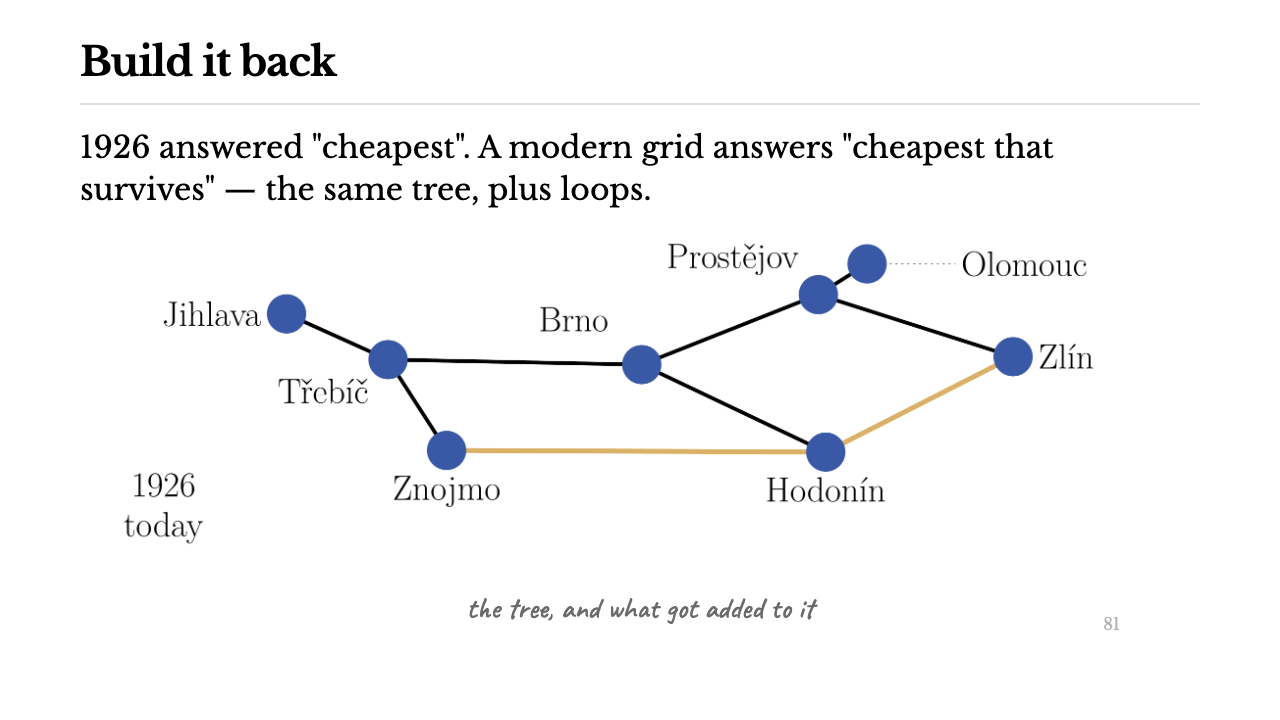
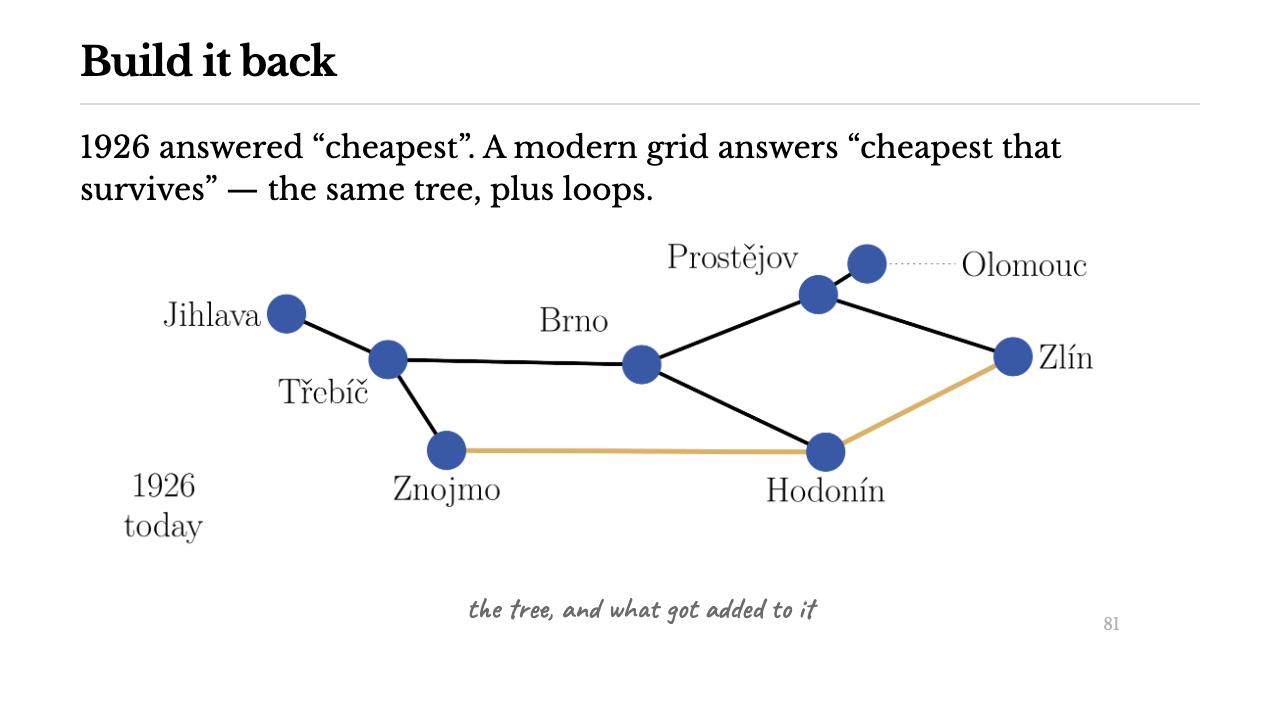
m03 R7: read the range no reviewer covered, and fix what it found
rev-24-46 never reported, so slides 24-46 were read here slide by slide.
Four findings: 'any cut' sliced in half by its own canvas; the Boruvka opening
frame drawing its note through the word 'Znojmo'; slide 39 ringing one of TWO
tied largest pieces as though it were the bigger; straight quotes and one
stress-bold.

Every slide in the deck has now been read by someone. check_render green:
92 slides, 365 discs in a 26-42px band.

Claude-Session: https://claude.ai/code/session_012tSRaLmnznNzAAZDmB9Dqh

Changed region(s): [[0.1875, 0.1833, 0.8438, 0.3056]]

diff --git a/docs/slide/new/m02/figures/make_figures.py b/docs/slide/new/m02/figures/make_figures.py
@@ -680,7 +680,9 @@ WS98 = [
 WS98_R = [(n, L / Lr, C / Cr, (C / Cr) / (L / Lr)) for n, _, L, Lr, C, Cr in WS98]
 WS98_N = {n: sz for n, sz, *_ in WS98}
 assert [round(s) for _, _, _, s in WS98_R] == [2397, 11, 5], WS98_R
-assert max(WS98_N.values()) / min(WS98_N.values()) > 700, "the sizes must span the claim"
+_orders = round(math.log10(max(WS98_N.values()) / min(WS98_N.values())))
+WS98_ORDERS = ["no", "one", "two", "three", "four"][_orders]
+assert _orders == 3, _orders
 
 GRID = nx.grid_2d_graph(20, 20)
 assert nx.transitivity(GRID) == 0
@@ -1107,6 +1109,32 @@ def ellipse_pos(n, cx, cy, rx, ry, start=90, ccw=True):
     for i in range(n):
         a = math.radians(start + (360 / n) * (i if ccw else -i))
         out[i] = (cx + rx * math.cos(a), cy + ry * math.sin(a))
+    return out
+
+
+def antiprism_pos(n, cx, cy, rx, ry, inner, start=90):
+    """Positions for C_n(1,2) that draw it planar with straight edges.
+
+    C_n(1,2) IS the (n/2)-antiprism.  Put the even nodes on an outer ellipse and the odd
+    nodes on a concentric inner one and the two families of edge separate cleanly: the
+    +2 edges become the two (n/2)-gons, the +1 edges the zigzag between them.  Zero
+    crossings, and every triangle draws as a triangle.
+
+    On one ellipse there is no such drawing.  Bow every skip chord inward and adjacent
+    chords cross at every node -- sixteen crossings on the slide whose claim is that
+    triangles are everywhere, with each triangle rendering as a lens.  Alternate the bows
+    in and out instead and the crossings go, but an outward bow has to clear its disc
+    from the far side, and the result is a wavy flower in which no triangle can be picked
+    out at all.  The antiprism dissolves the trade rather than choosing a side.
+    """
+    assert n % 2 == 0, n
+    step = 720.0 / n                      # even nodes sit two ring steps apart
+    out = {}
+    for k in range(n // 2):
+        a = math.radians(start + step * k)
+        out[2 * k] = (cx + rx * math.cos(a), cy + ry * math.sin(a))
+        b = math.radians(start + step * k + step / 2)
+        out[2 * k + 1] = (cx + inner * rx * math.cos(b), cy + inner * ry * math.sin(b))
     return out
 
 
@@ -1664,14 +1692,12 @@ def fig_ws1998_sigma():
 # 16 nodes, not 20: at 40bp discs a 20-node ring needs a 358bp circle, which fills a
 # column figure's whole height and leaves the deck scaling white margin either side.
 # k=4 gives C = 3(k-2)/(4(k-1)) = 0.5 whatever n is, so nothing in the story changes.
-# Vertically 124: an inward chord bowed clear of the disc it passes needs 34bp of the
-# ring's own radius, and the canvas is 364bp tall.  Horizontally 180, because a circle
-# that short left the drawing spanning 60% of the canvas width -- below that the deck is
-# scaling white margin instead of the picture.
+# The layout is the 8-antiprism (see antiprism_pos): rx 195 so the drawing spans the
+# column, ry 124 so the whole figure clears the 364bp canvas with its caption under it.
 RING_N, RING_K = 16, 4
-RING_RX, RING_RY = 180, 124
+RING_RX, RING_RY, RING_INNER = 195, 124, 0.62
 RING_C = (260, 200)
-RING_POS = ellipse_pos(RING_N, RING_C[0], RING_C[1], RING_RX, RING_RY, start=90)
+RING_POS = antiprism_pos(RING_N, RING_C[0], RING_C[1], RING_RX, RING_RY, RING_INNER)
 RING_EDGES = sorted({(min(i, (i + d) % RING_N), max(i, (i + d) % RING_N))
                      for i in range(RING_N) for d in (1, 2)})
 assert len(RING_EDGES) == RING_N * RING_K // 2 == 32
@@ -1689,15 +1715,11 @@ RING_CLEAR = NODE / 2 + 16
 
 
 def assert_triangles_open(name, pos, paths):
-    """Every chord must leave a visible interior in the triangle it closes.
+    """Every edge must leave a visible interior in the triangle it closes.
 
-    C16(1,2) is planar and a zero-crossing drawing does exist -- alternate the chords
-    inside and outside the ring and the 16 crossings go away.  It was built and rejected:
-    an outward bow has to clear the disc from the far side, which needs 34bp against 14bp
-    inward, and the result is a wavy flower in which not one triangle can be picked out.
-    On the slide whose claim is "triangles everywhere" that trades a Major for a Blocker.
-    So the chords all bow inward, deeply, and this is the invariant that protects what the
-    slide actually asserts.
+    On the antiprism layout the 16 triangles are drawn with straight edges and this gate
+    measures the gap between an edge and the disc it passes; it is what stops the inner
+    ellipse creeping out toward the outer one until the triangles collapse into slivers.
     """
     worst = None
     for a, b, pts in paths:
@@ -1712,21 +1734,33 @@ def assert_triangles_open(name, pos, paths):
         f"disc -- under 12bp the triangle it closes has no visible interior")
 
 
-def _ring(hot=(), pos=RING_POS, edges=RING_EDGES, ringed=(), cen=RING_C, dashed=(),
-          check=True):
+def _lattice_edges(pos=RING_POS, edges=RING_EDGES, hot=(), name="ring lattice"):
+    """The lattice itself, drawn straight, and gated three ways.
+
+    Straight is the point: on the antiprism layout no lattice edge needs a bow to clear
+    a disc, so there is nothing to bow and nothing to cross.  The three gates are the
+    guarantee -- planar drawing, disc clearance, and a visible triangle interior.
+    """
     s = ""
-    paths = []
     for a, b in edges:
         h = (a, b) in hot or (b, a) in hot
-        s += curve_edge(a, b, pos, color="accenttwo" if h else "black",
-                        w=HEAVY_W if h else EDGE_W, centroid=cen,
-                        clear=RING_CLEAR, paths=paths)
+        s += seg(pos[a], pos[b], color="accenttwo" if h else "black",
+                 w=HEAVY_W if h else EDGE_W)
+    paths = _edge_paths(edges, pos)
+    assert_drawn_planar(name, edges, pos)
+    assert not clearance_ok(edges, pos, r=NODE / 2 + 10), \
+        clearance_ok(edges, pos, r=NODE / 2 + 10)
+    assert_triangles_open(name, pos, paths)
+    return s
+
+
+def _ring(hot=(), pos=RING_POS, edges=RING_EDGES, ringed=(), cen=RING_C, dashed=(),
+          check=True):
+    s = _lattice_edges(pos, edges, hot)
     for a, b in dashed:
         s += curve_edge(a, b, pos, color="annot", w=2.2,
                         dash="dash pattern=on 8bp off 7bp", centroid=cen,
                         clear=RING_CLEAR)
-    if check:
-        assert_triangles_open("ring lattice", pos, paths)
     for i2 in pos:
         s += disc(pos[i2][0], pos[i2][1], "", fill="accent")
     for i2 in ringed:
@@ -2160,10 +2194,12 @@ def fig_universality():
     s += text(x0 + 12, 238, "$\\sigma = 1$", color="annot", anchor="south west")
     for r, (nm, _, _, sg) in enumerate(WS98_R):
         y = 128 + (2 - r) * 50
-        s += text(430, y, f"{nm}, $n = {WS98_N[nm]:,}$".replace(",", "{,}"),
-                  color="black", anchor="east")
+        # {,} and not a bare comma inside the math: a comma is punctuation there, so
+        # $225,226$ typesets with a thin space after it
+        n = f"{WS98_N[nm]:,}".replace(",", "{,}")
+        s += text(430, y, f"{nm}, $n = {n}$", color="black", anchor="east")
         s += dot(round(X(sg), 1), y, "accenttwo")
-    s += text(740, 272, "four orders of magnitude apart --- one signature",
+    s += text(740, 272, f"{WS98_ORDERS} orders of magnitude apart --- one signature",
               color="accenttwo", anchor="south")
     return s
 

diff --git a/docs/slide/new/m03/figures/make_figures.py b/docs/slide/new/m03/figures/make_figures.py
@@ -1205,15 +1205,22 @@ def fig_real_grid_mesh():
 
 
 def fig_connectivity_def():
+    """Both largest pieces are highlighted, because they are TIED.
+
+    Removing Brno leaves 3 + 3 + 1. Ringing only one of the two 3-node pieces --
+    whichever `max` happened to return -- told the room that piece was bigger.
+    """
     pieces = sorted(nx.connected_components(
         nx.subgraph_view(MST, filter_node=lambda n: n != "Brno")), key=len, reverse=True)
-    big = max(pieces, key=len)
-    frac = connectivity(MST, ["Brno"])
+    top = max(len(p) for p in pieces)
+    biggest = [p for p in pieces if len(p) == top]
+    assert len(biggest) == 2 and top == 3, [len(p) for p in pieces]
+    marked = set().union(*biggest)
     return moravia(edges=MST_PAIRS, removed=["Brno"],
                    heavy={(a, b): "accenttwo" for a, b in MST_PAIRS
-                          if a in big and b in big},
-                   rings={n: "accenttwo" for n in big},
-                   extra_text=note(f"{len(big)} / 8"))
+                          if a in marked and b in marked},
+                   rings={n: "accenttwo" for n in marked},
+                   extra_text=note(f"{top} / 8"))
 
 
 # --- curve plotting ---------------------------------------------------------

diff --git a/docs/slide/new/m03/review/FIXES_R6.md b/docs/slide/new/m03/review/FIXES_R6.md
@@ -92,3 +92,37 @@ reported; that range still has no independent read.
   spanning cluster at p just above p_c, so "one puddle owns the yard" is not what the
   picture does. Needs a squarer yard and a tighter assertion.
 - **Slides 24–46 have no independent read at all.**
+
+---
+
+# Round 7 — closing the unreviewed range (slides 24–46)
+
+rev-24-46 never reported, so this range was read here, slide by slide, on the current
+render. Four findings, all fixed:
+
+1. **Slide 27 — F3** — "any cut" sat at y=330 on a 350bp canvas, so the page sliced its
+   glyphs in half. Caught by the new clipping gate, along with seven other figures.
+2. **Slide 31 — F3** — the Borůvka opening frame drew "every town is its own island"
+   straight through the word "Znojmo". Notes carry numbers now, and a note that runs into
+   a town name fails the build.
+3. **Slide 39 — F1** — removing Brno leaves 3 + 3 + 1, so **two** pieces tie for largest;
+   the figure ringed whichever one `max()` happened to return, telling the room it was the
+   bigger. Both are highlighted now, and the tie is asserted.
+4. **Slides 30, 37, 39, 81 — typography** — straight quotes; **slide 43** — "order" bolded
+   for stress rather than as a term.
+
+All 23 slides in the range have now been read individually.
+
+## Coverage as it stands
+
+| range | read by |
+|---|---|
+| 1–23 | rev-1-23 (full report) + spot checks here |
+| 24–46 | **this session, slide by slide** (rev-24-46 never reported) |
+| 47–69 | rev-47-69 (full report) |
+| 70–92 | rev-70-92 (full report) |
+
+Every slide has now been read by someone. What remains open is listed under "Live and NOT
+fixed this round" above, minus the CSS item, which the lecturer authorised and which is
+fixed: `section.mid` now out-specifies `.formula:last-child`, so question slides centre
+their body instead of hanging it on the floor.

diff --git a/docs/slide/new/m03/m03-robustness.md b/docs/slide/new/m03/m03-robustness.md
@@ -528,7 +528,7 @@ All weights distinct implies a unique MST; ties imply several optima of equal co
 
 <hr>
 
-Neither of these is his. In 1926 there is no computer, no sorted list of thirteen numbers, and no notion of an "algorithm" to lean on.
+Neither of these is his. In 1926 there is no computer, no sorted list of thirteen numbers, and no notion of an “algorithm” to lean on.
 
 <div class="formula">
 
@@ -642,7 +642,7 @@ Lose Brno and eight towns become three, three and one.
 
 <hr>
 
-One route between any two towns means every cable is a single point of failure — not bad luck, but what "cheapest" bought.
+One route between any two towns means every cable is a single point of failure — not bad luck, but what “cheapest” bought.
 
 <div class="fig">
 
@@ -677,7 +677,7 @@ Every transmission network you depend on is *meshed*: cut one line, the power ar
 <div class="fig">
 
 ![w:1100](figures/connectivity-def.png)
-<figcaption>one number for "how bad"</figcaption>
+<figcaption>one number for how bad it is</figcaption>
 
 </div>
 
@@ -739,7 +739,7 @@ The **R-index** is the area under the profile, $R = \frac{1}{N}\sum_k y_k$. This
 
 <hr>
 
-Same grid. Same number of towns removed. Only the **order** is different.
+Same grid. Same number of towns removed. Only the *order* is different.
 
 <div class="formula">
 
@@ -1377,7 +1377,7 @@ Zlín–Hodonín and Znojmo–Hodonín close a ring. +136 km (+47%): worst singl
 
 <hr>
 
-1926 answered "cheapest". A modern grid answers "cheapest that survives" — the same tree, plus loops.
+1926 answered “cheapest”. A modern grid answers “cheapest that survives” — the same tree, plus loops.
 
 <div class="fig">
 
